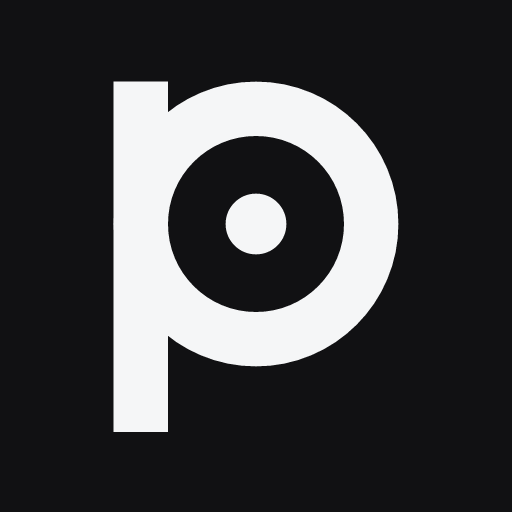
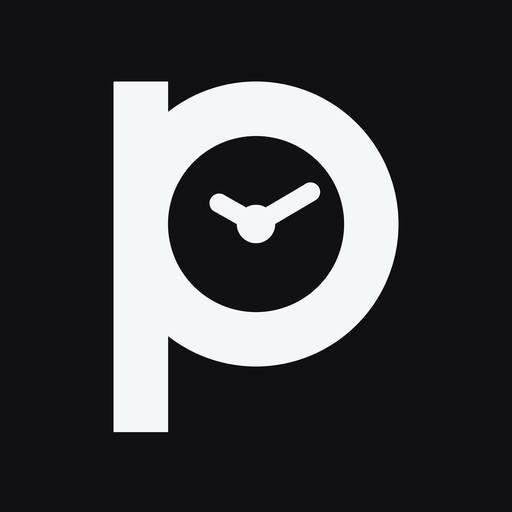
💄: style(web): Ícone com relógio analógico dentro do P (#23)
- miolo do P vira relógio analógico (favicon, ico, PNGs e marca do menu/login)

Changed region(s): [[0.4062, 0.3438, 0.625, 0.5]]

diff --git a/apps/web/src/layout/icons.tsx b/apps/web/src/layout/icons.tsx
@@ -98,7 +98,8 @@ export function Icon({ name, size = 16 }: { name: keyof typeof PATHS; size?: num
 
 /**
  * Marca do app: "p" de Plantão. O anel é o ciclo de 360° do rodízio, a haste é o posto
- * e o ponto é quem está de plantão. Mesma geometria do favicon (apps/web/public/favicon.svg).
+ * e o relógio analógico no miolo é o plantão (24h/365). Mesma geometria do favicon
+ * (apps/web/public/favicon.svg).
  */
 export function BrandMark() {
   return (
@@ -107,7 +108,14 @@ export function BrandMark() {
         <path d="M8.8 5.1V27" />
         <circle cx="16" cy="14" r="7.2" />
       </g>
-      <circle cx="16" cy="14" r="1.9" fill="currentColor" />
+      <path
+        d="M16 14L13.7 12.7M16 14L19.4 12"
+        fill="none"
+        stroke="currentColor"
+        strokeWidth="1.2"
+        strokeLinecap="round"
+      />
+      <circle cx="16" cy="14" r="1.2" fill="currentColor" />
     </svg>
   );
 }
